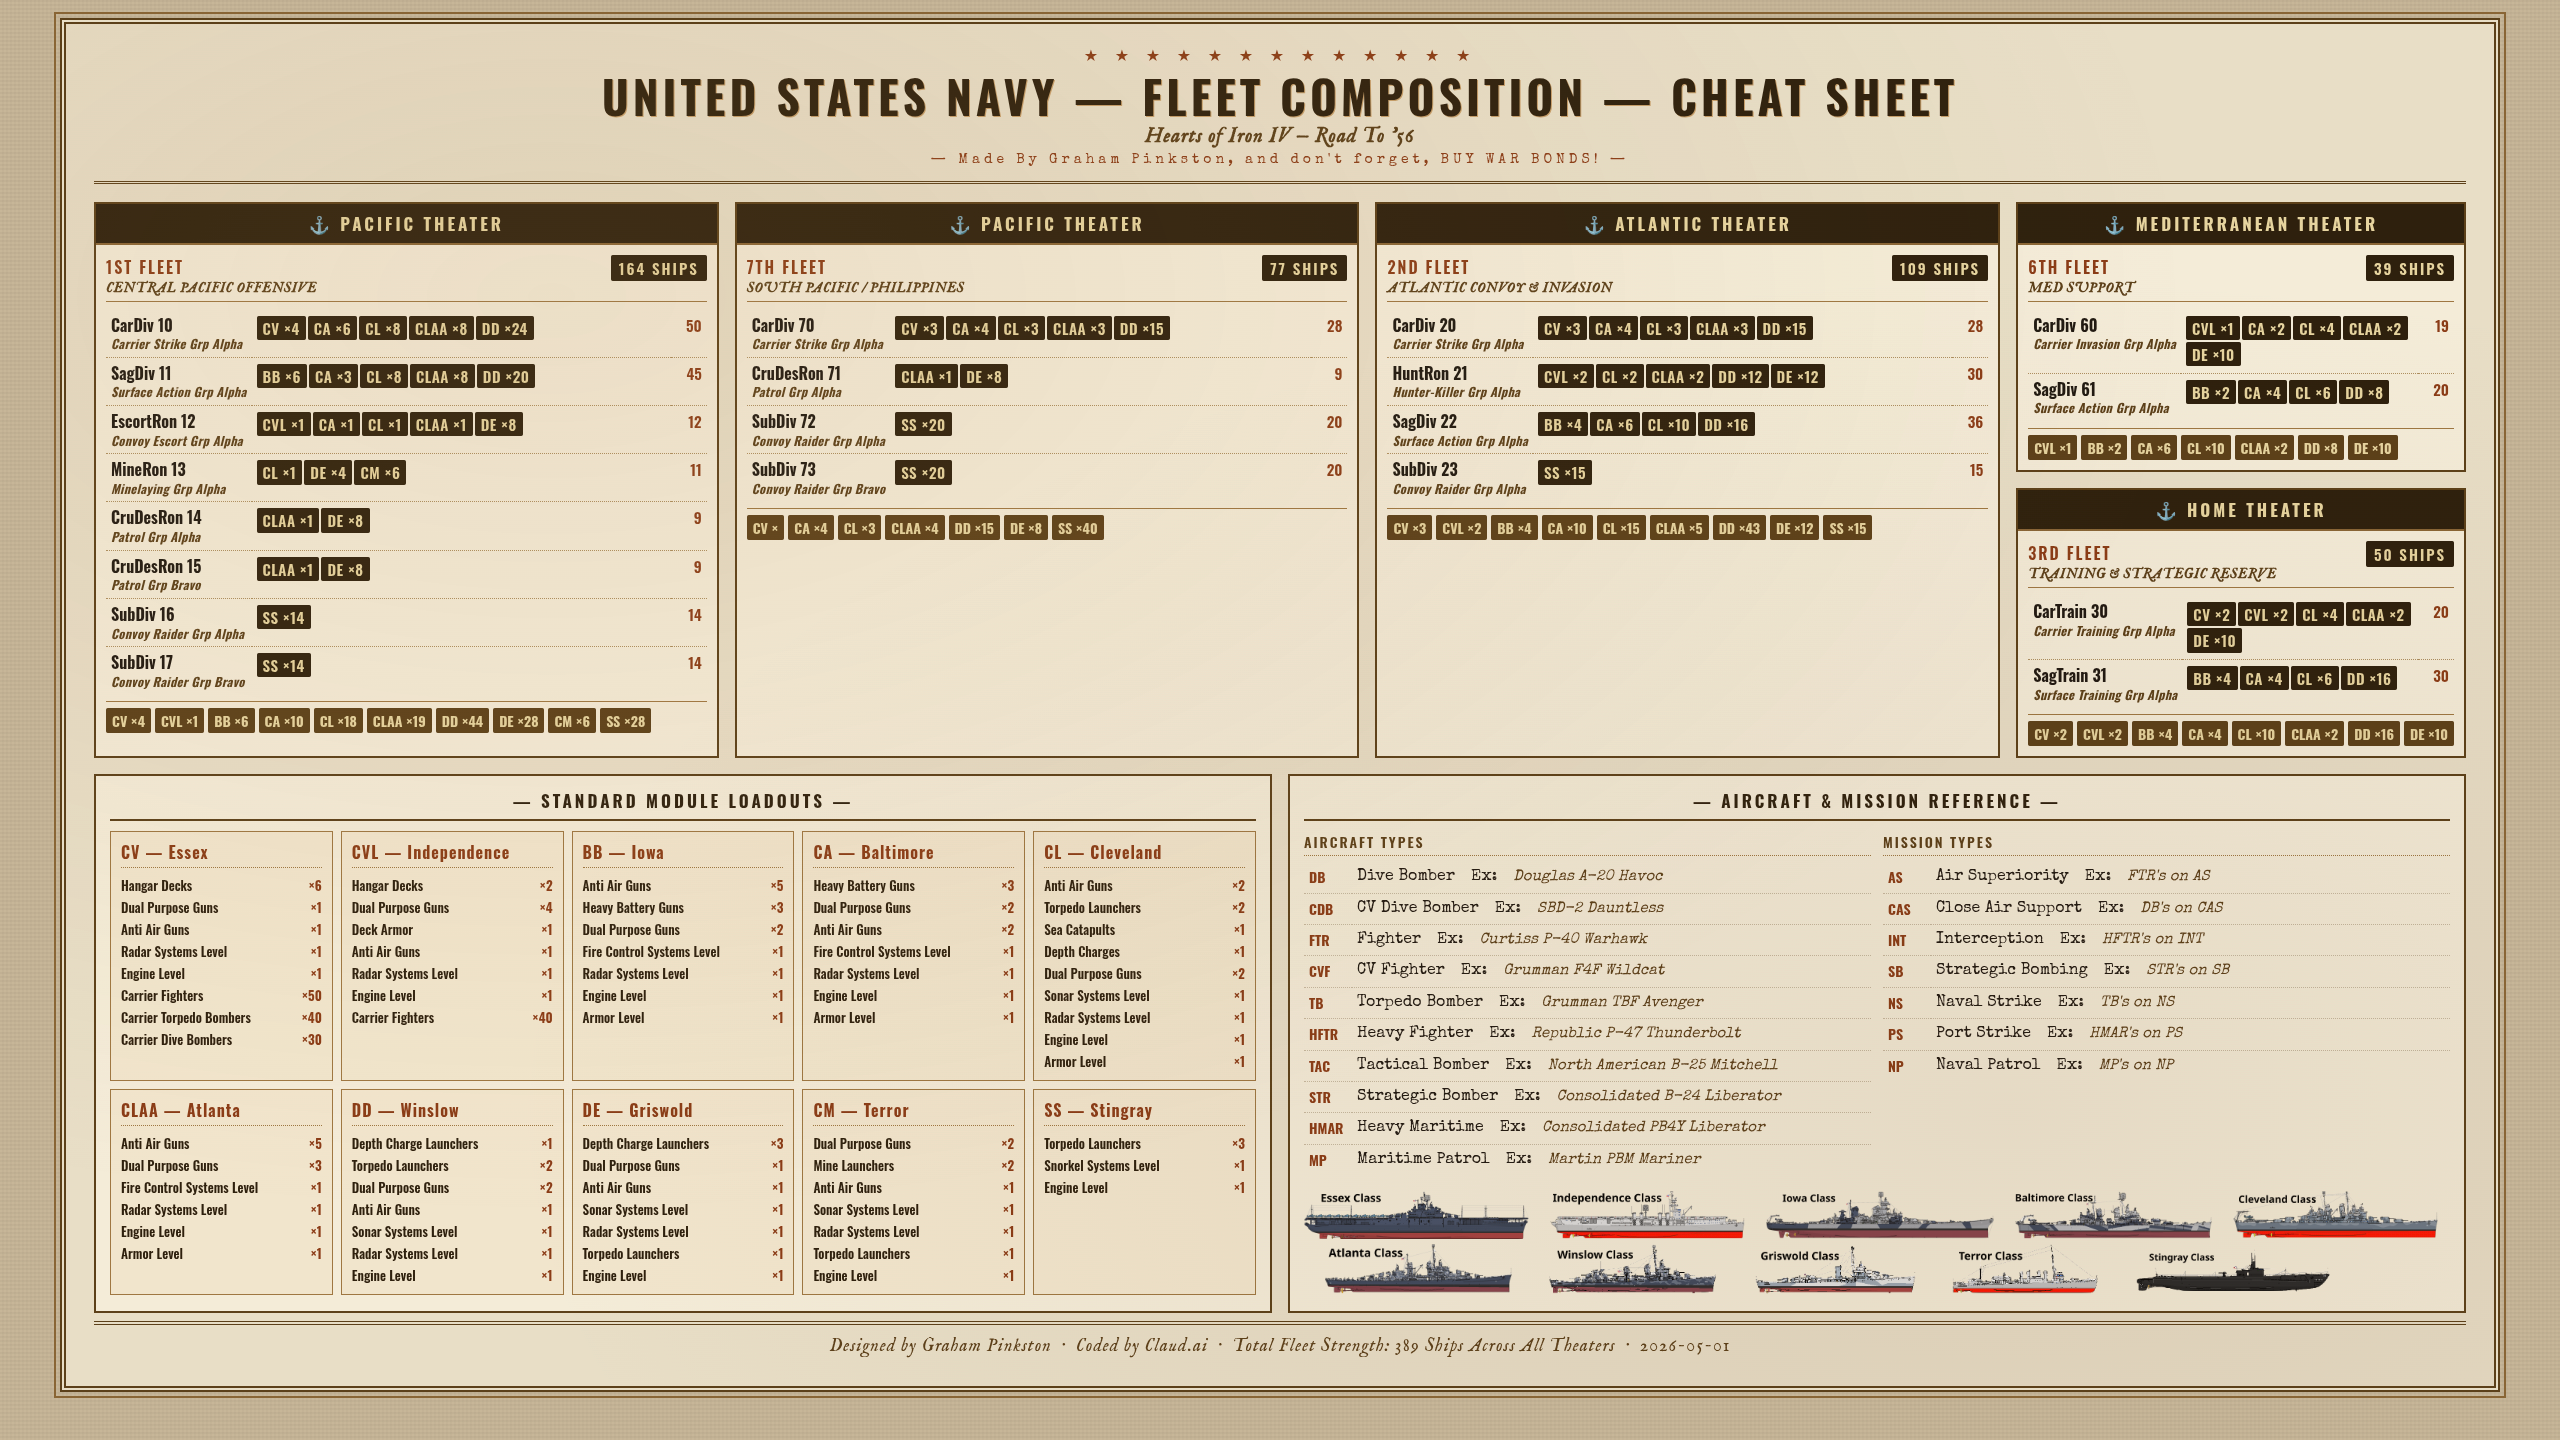
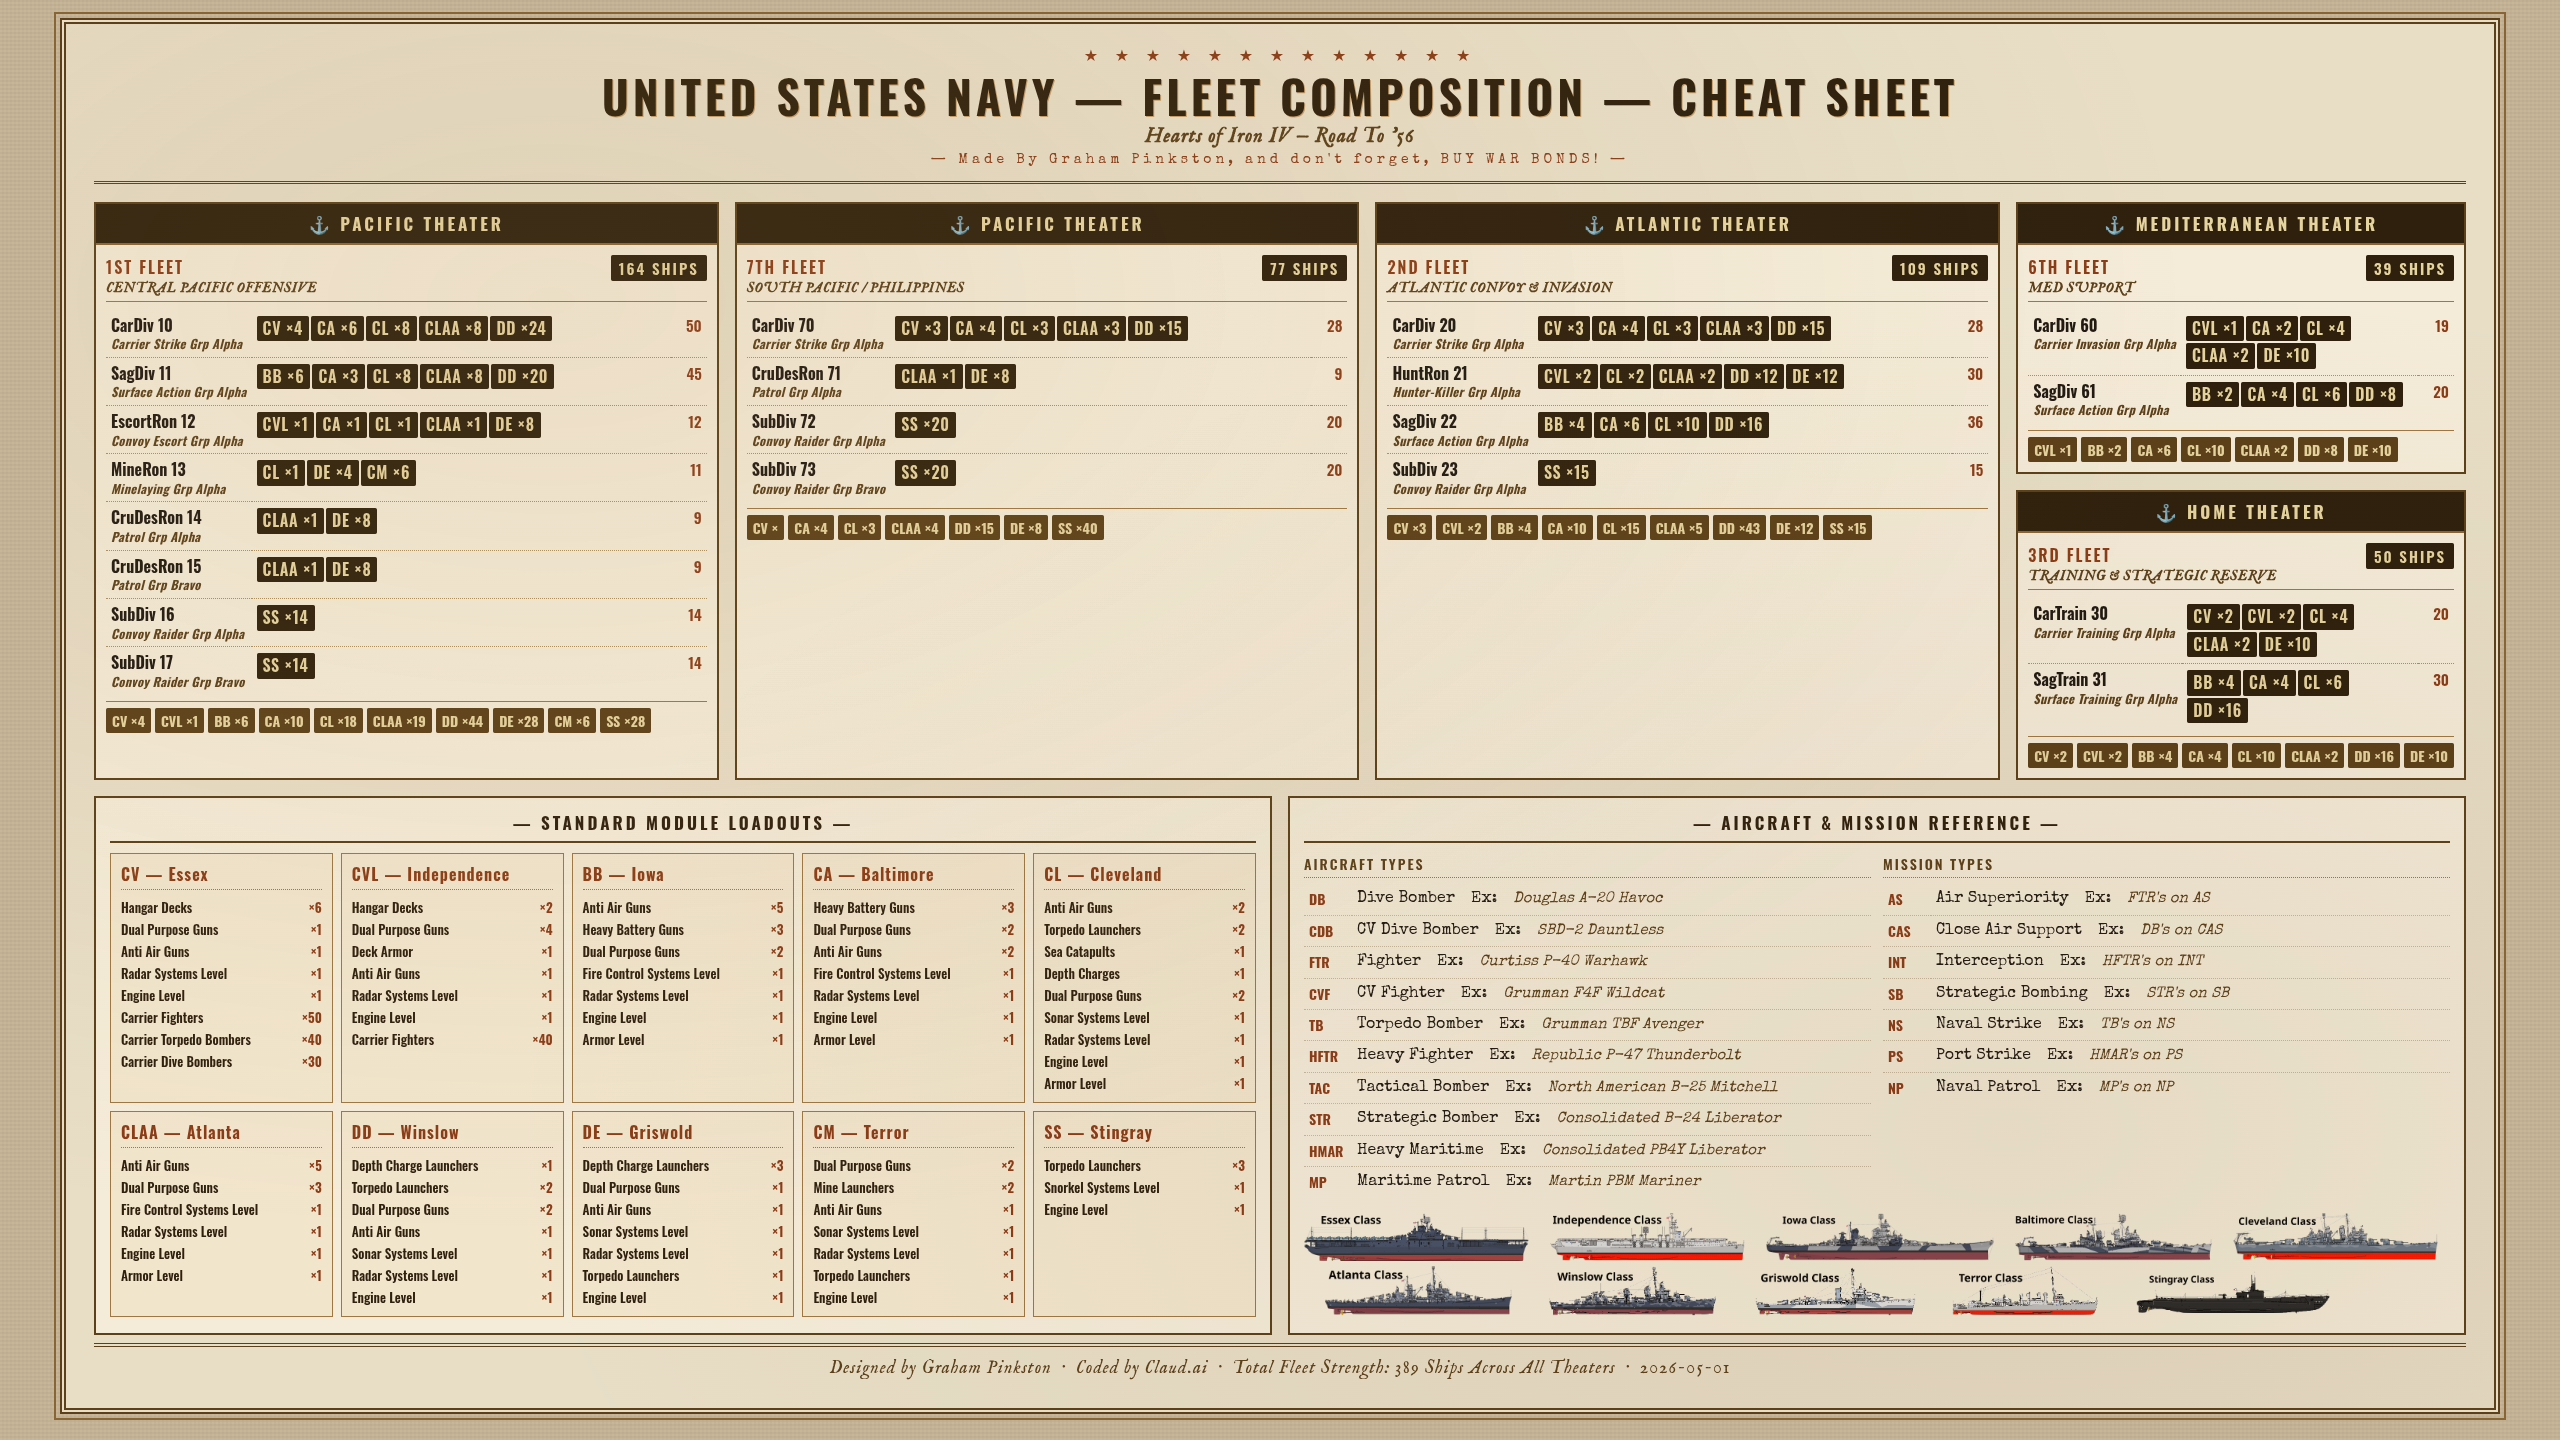
adjustments to size and scale

diff --git a/HOI4_Fleet_Comp_v4.html b/HOI4_Fleet_Comp_v4.html
@@ -103,7 +103,7 @@
     display:inline-block;
     background:#2a1a05;color:#e8d5a0;
     font-family:'Oswald',sans-serif;font-weight:600;
-    font-size:15px;letter-spacing:.5px;
+    font-size:16px;letter-spacing:.7px;
     padding:2px 6px;border-radius:2px;margin:1px 2px 1px 0;white-space:nowrap;
   }
   .tf-total-cell{